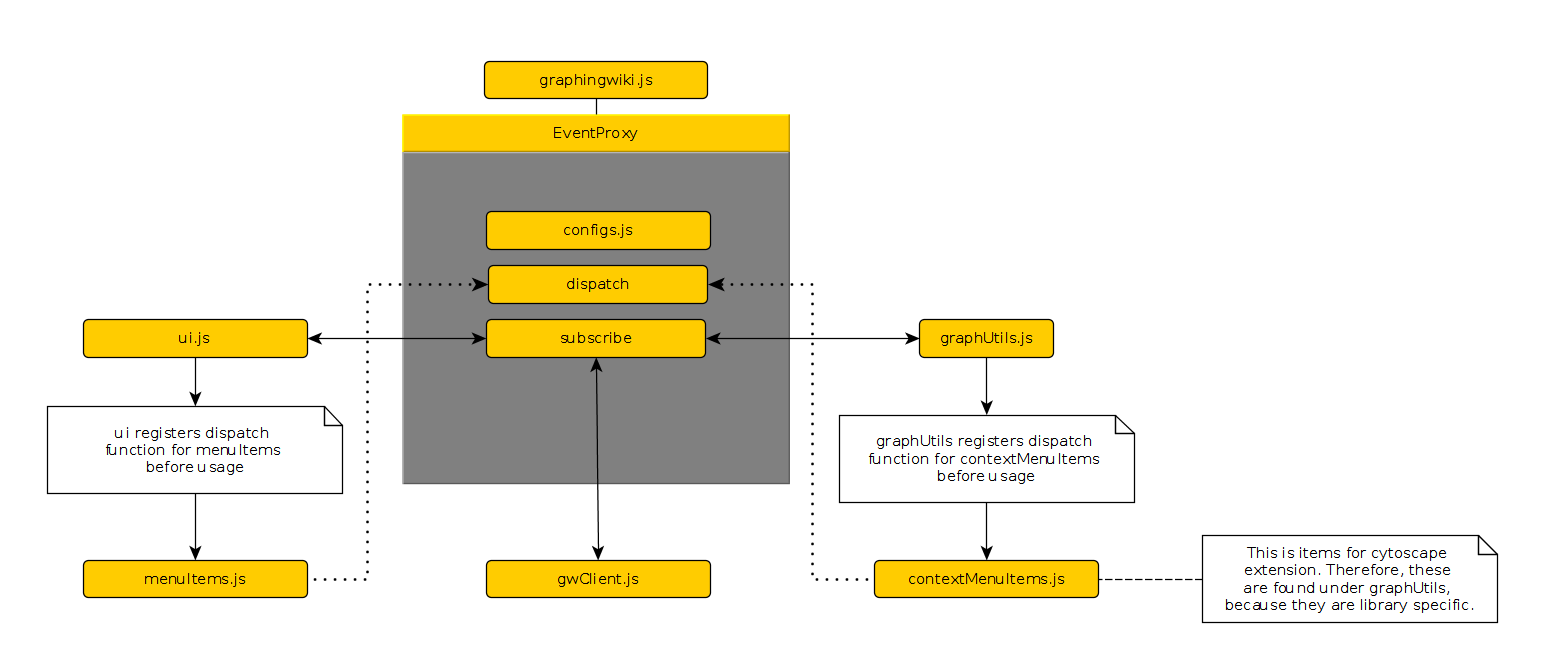
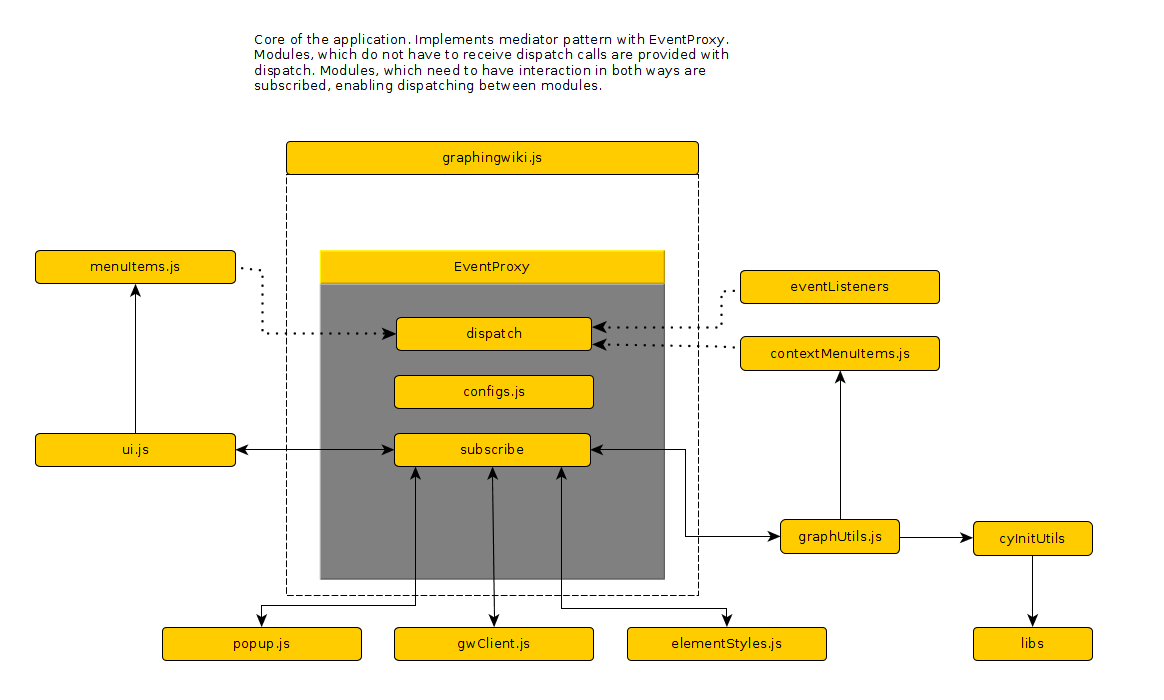
diagrams

Changed region(s): [[0.0309, 0.0304, 0.8351, 0.9422], [0.7732, 0.7295, 0.9897, 0.9726], [0.0309, 0.3343, 0.2165, 0.4255]]

diff --git a/proto_v0.04/js/graphingwiki.js b/proto_v0.04/js/graphingwiki.js
@@ -10,8 +10,10 @@ define([
         "utils/graphUtils",
         "utils/gwClient",
         "components/popup",
-        "utils/eventListeners"],
-    function (elementStyles, ui, configs, graphUtils, gwClient, popup, eventListeners) {
+        "utils/eventListeners",
+    "components/menuItems",
+    "components/contextMenuItems"],
+    function (elementStyles, ui, configs, graphUtils, gwClient, popup, eventListeners, menuItems, contextMenuItems) {
         /**
          * Graphingwikibrowser module.
          * @exports graphingwiki
@@ -45,6 +47,9 @@ define([
                             console.info("Subscription of " + observers[index].id + " confirmed.");
                         }
 
+                    },
+                    CONFIRM_SET_DISPATCH: function (props) {
+                        console.info("Confirm setting dispatch for %s", props.source);
                     },
                     TEST_DISPATCH: function (props) {
                         console.log("EventProxy received dispatched action.");
@@ -119,7 +124,11 @@ define([
          * and these need to have access to dispatch
          */
         function setDispatch() {
-            eventListeners.setDispatch(eventProxy.dispatch)
+            console.group("Set dispatch for modules modules.");
+            eventListeners.setDispatch(eventProxy.dispatch);
+            menuItems.setDispatch(eventProxy.dispatch);
+            contextMenuItems.setDispatch(eventProxy.dispatch);
+            console.groupEnd();
         }
 
 
@@ -250,8 +259,8 @@ define([
 
         return {
             start: function (props) {
-                subscribeComponents();
                 setConfigs();
+                subscribeComponents();
                 setDispatch();
                 render({gwClient: gwClient});
                 loadAppState();

diff --git a/proto_v0.04/js/components/contextMenuItems.js b/proto_v0.04/js/components/contextMenuItems.js
@@ -3,10 +3,9 @@
  */
 
 define([
-    "components/popup",
     "utils/eventListeners",
     "utils/graphUtils"
-], function (popup, eventListeners, graphUtils) {
+], function (eventListeners, graphUtils) {
 
     console.log("debugging contextMenu");
     try {
@@ -18,19 +17,7 @@ define([
 
     var dispatch;
 
-    return {
-        setDispatch: function (fn) {
-            dispatch = fn;
-            dispatch({
-                action: "TEST_DISPATCH",
-                ctx: this,
-                target: "eventProxy",
-                source: "contextMenuItems",
-                fn: null,
-                info: "dev test"
-            });
-        },
-        menuItems: [
+    var items = [
             {
                 id: 'debug',
                 content: 'debug',
@@ -179,8 +166,22 @@ define([
                     cy.$(':selected').remove();
                 }
             }
-        ]
-    };
+        ];
+
+    return {
+        setDispatch: function (fn) {
+            dispatch = fn;
+            dispatch({
+                action: "CONFIRM_SET_DISPATCH",
+                ctx: this,
+                target: "eventProxy",
+                source: "contextMenuItems",
+                fn: null,
+                info: "dev test"
+            });
+        },
+        menuItems: items,
+    }
 
 
 });

diff --git a/proto_v0.04/js/utils/graphUtils.js b/proto_v0.04/js/utils/graphUtils.js
@@ -3,7 +3,7 @@
  */
 
 define([
-        "configuration/contextMenuItems",
+        "../components/contextMenuItems",
         "components/elementStyles",
         "utils/cyInitUtils",
         "components/popup"
@@ -1099,7 +1099,7 @@ define([
          * */
         function createNewCy(props) {
             try {
-                contextMenuItems.setDispatch(dispatch);
+                //contextMenuItems.setDispatch(dispatch);
                 props.contextMenuItems = contextMenuItems;
                 cy = cyInitUtils.init(props);
                 cy.on('tap', 'node', bindExpandNode);

diff --git a/proto_v0.04/js/components/menuItems.js b/proto_v0.04/js/components/menuItems.js
@@ -26,15 +26,14 @@ define(["utils/eventListeners", "components/elementStyles"],
         }
 
 
-
         return {
             setDispatch: function (fn) {
                 dispatch = fn;
                 dispatch({
-                    action: "TEST_DISPATCH",
+                    action: "CONFIRM_SET_DISPATCH",
                     ctx: this,
                     target: "eventProxy",
-                    source: "contextMenuItems",
+                    source: "menuItems",
                     fn: null,
                     info: "dev test"
                 });

diff --git a/proto_v0.04/js/components/ui.js b/proto_v0.04/js/components/ui.js
@@ -232,7 +232,7 @@ define([
         function menu(props) {
 
             // setDispatch fn for menuItem interaction with eventProxy
-            menuItems.setDispatch(dispatch);
+            // menuItems.setDispatch(dispatch);
 
             // Create the div which contains graphingwikiBrowser navigation tabs.
             var gw = props.gwClient;

diff --git a/proto_v0.04/js/utils/eventListeners.js b/proto_v0.04/js/utils/eventListeners.js
@@ -19,7 +19,7 @@ define([
         setDispatch: function (fn) {
             dispatch = fn;
             dispatch({
-                action: "TEST_DISPATCH",
+                action: "CONFIRM_SET_DISPATCH",
                 ctx: this,
                 target: "eventProxy",
                 source: "eventListeners",
